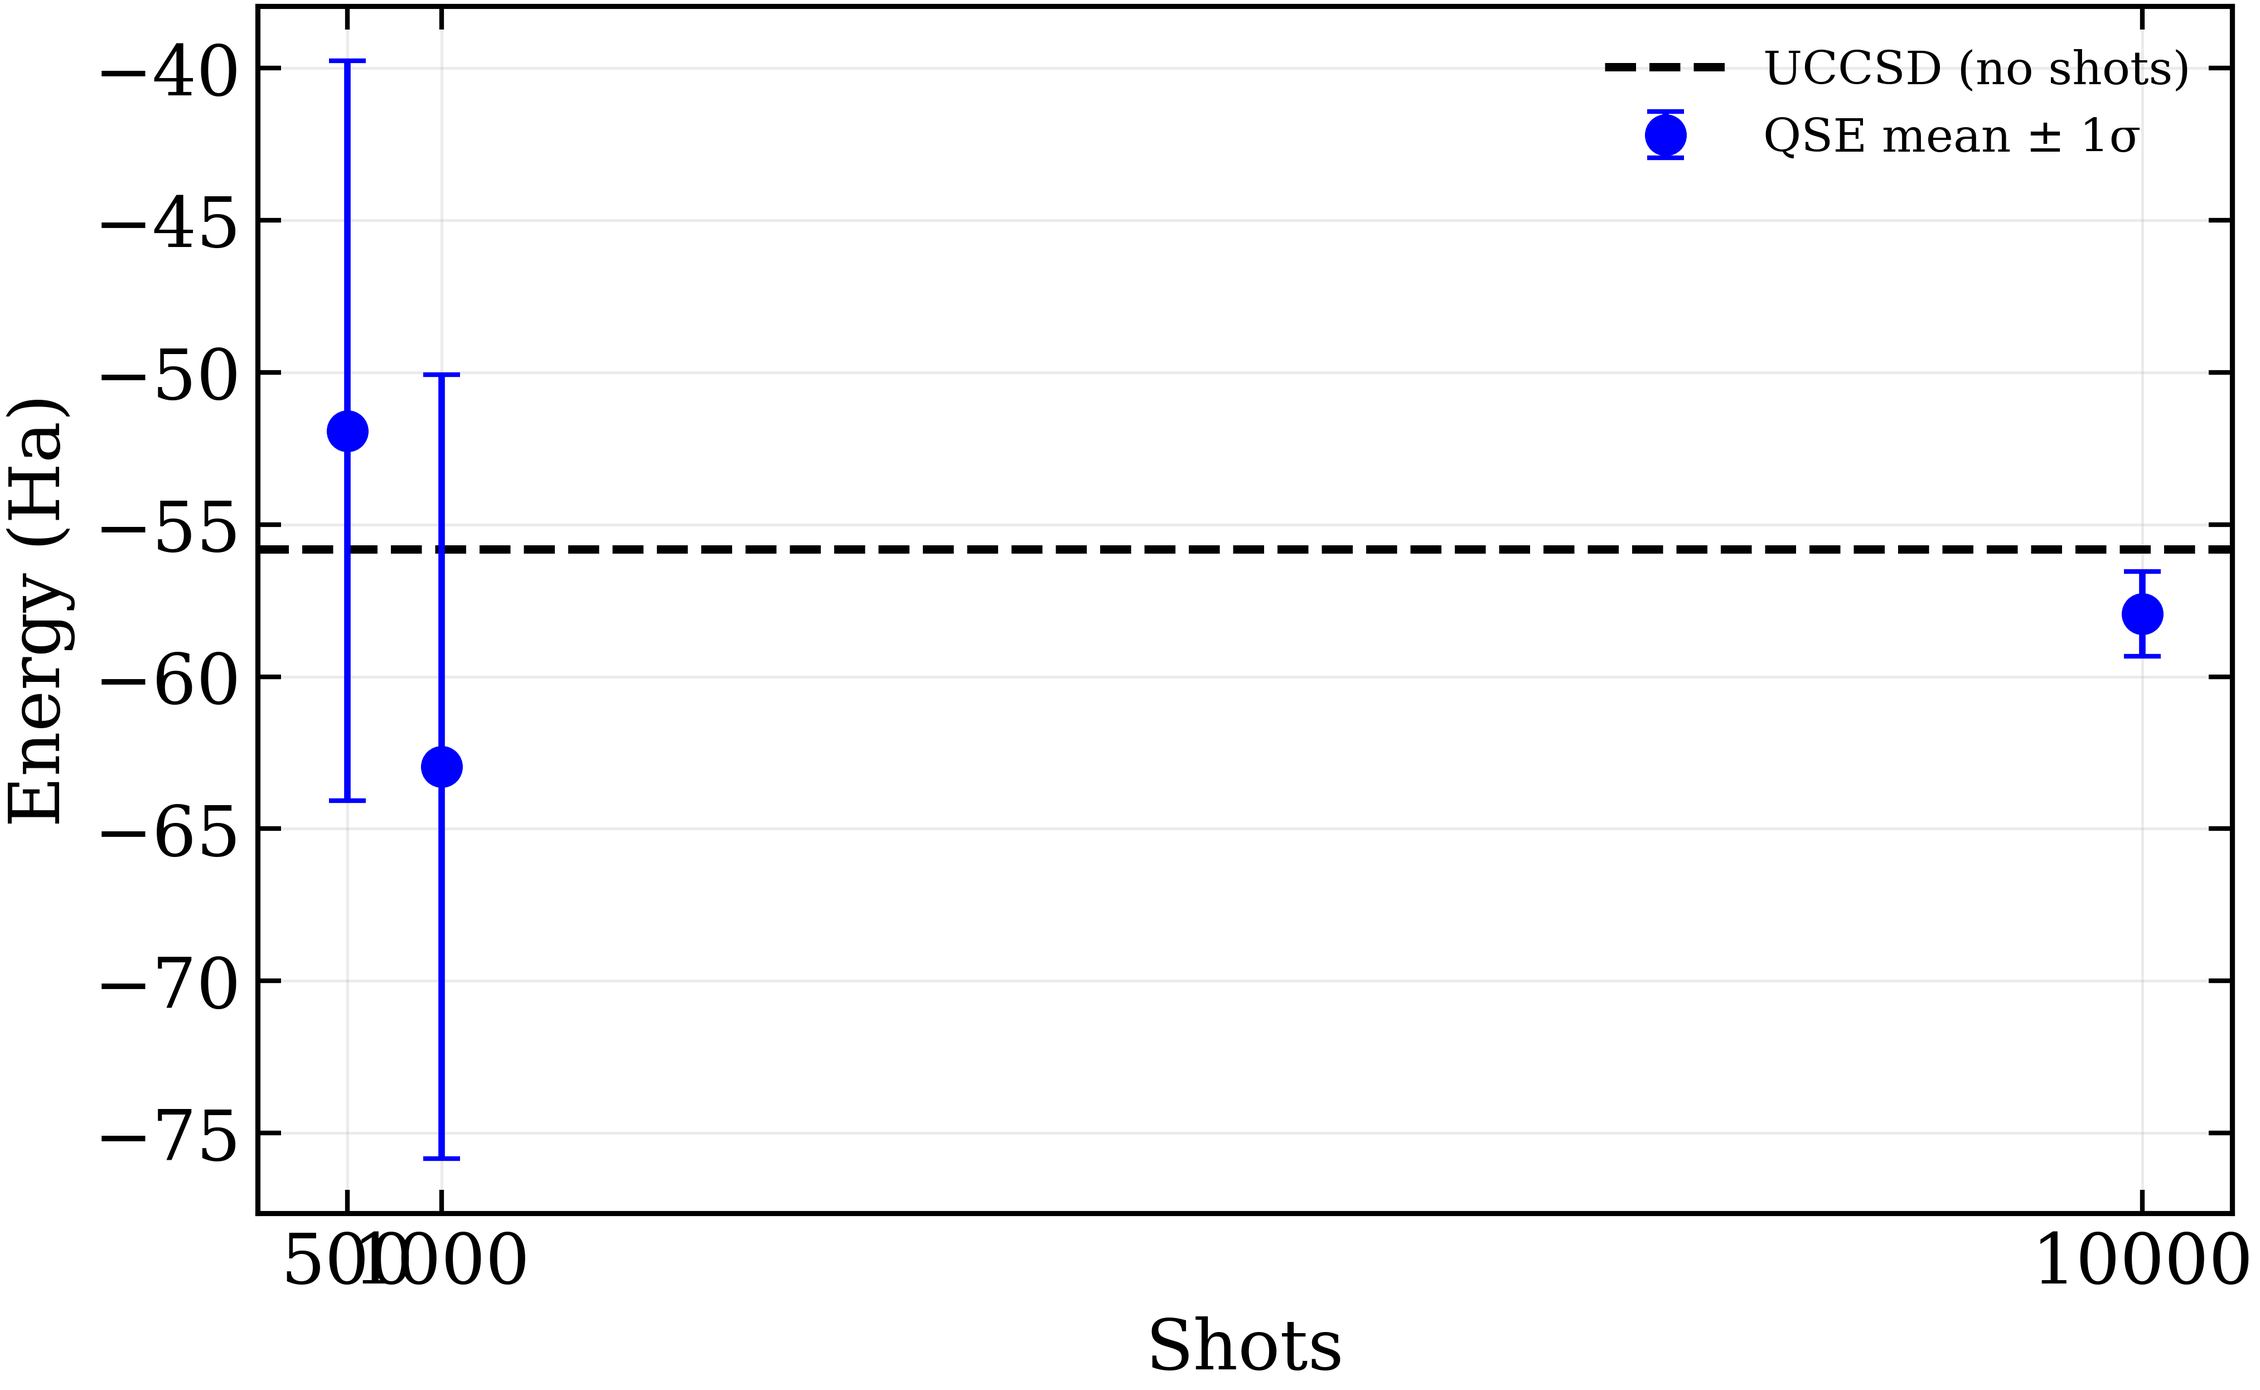
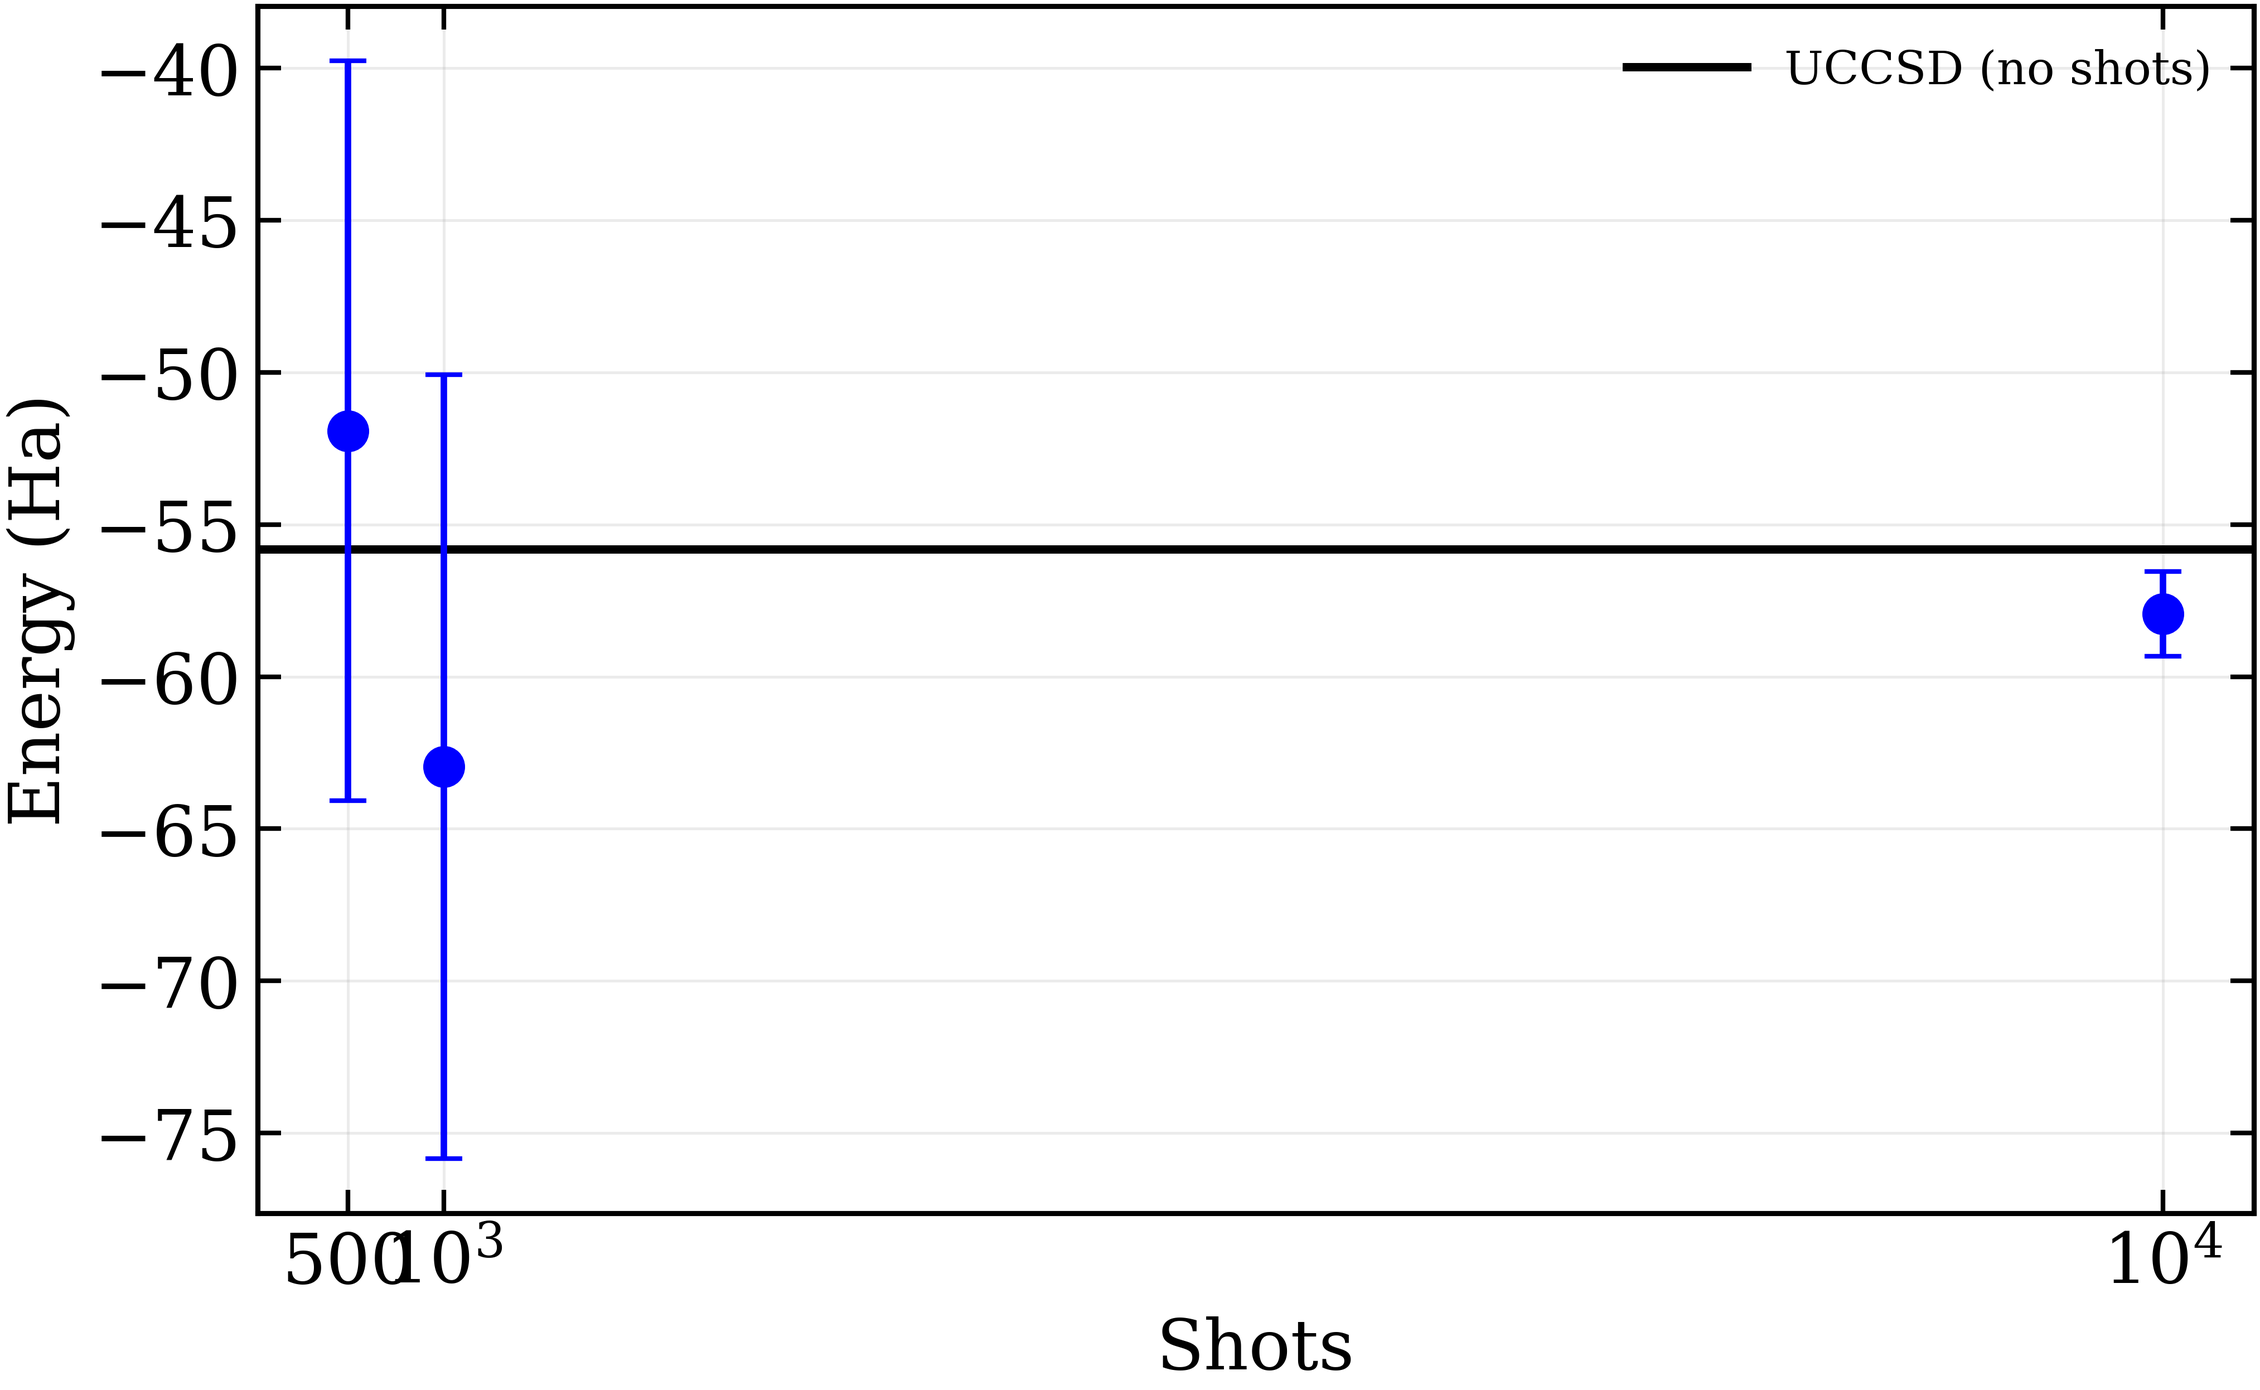
save

diff --git a/qse/ongoing_qse.py b/qse/ongoing_qse.py
@@ -1,0 +1,362 @@
+import numpy as np
+from pathlib import Path
+from qiskit import transpile
+from qiskit_nature.second_q.drivers import PySCFDriver
+from qiskit_nature.second_q.mappers import JordanWignerMapper
+from qiskit_nature.second_q.circuit.library import UCCSD, HartreeFock
+from qiskit_algorithms import VQE
+from qiskit_algorithms.optimizers import SPSA,SLSQP, POWELL
+from qiskit.primitives import Estimator
+from qiskit_algorithms.utils import algorithm_globals
+from qiskit_nature.second_q.algorithms import GroundStateEigensolver
+from qiskit.quantum_info import Statevector, SparsePauliOp
+import scipy
+from qiskit_aer.primitives import Estimator as AerEstimator
+from qiskit_nature.second_q.algorithms.initial_points import HFInitialPoint
+from qiskit_nature.second_q.mappers import JordanWignerMapper
+from qiskit_nature.second_q.operators import FermionicOp
+from qiskit_nature.second_q.transformers import ActiveSpaceTransformer
+import numpy as np
+from pyscf import gto, scf
+import pyscf.mcscf as mcscf
+
+#Create the all possible excitations
+num_spartial_orbital = 4
+num_spin_orbitals = num_spartial_orbital * 2
+
+# Initialize the mapper
+mapper = JordanWignerMapper()
+#Create an identity operator
+I = FermionicOp({'': 1.0}, num_spin_orbitals =num_spin_orbitals)
+I = mapper.map(I)
+
+ #list of occupied orbitals
+occupied = []
+for i in range(num_spin_orbitals//4):
+    occupied.append(i)
+    occupied.append(i+num_spin_orbitals//2)
+#occupied = [0,4,1,5]
+    
+# Generate all possible single excitations
+excitations = []
+def all_excitations(num_spin_orbitals):
+    for i in range(num_spin_orbitals):
+        for j in range(i+1, num_spin_orbitals):
+            # Prevent electrons from moving from alpha spin to beta spin and beta spin to alpha
+            if i != j and ((i < num_spin_orbitals // 2 and j < num_spin_orbitals // 2) or (i >= num_spin_orbitals // 2 and j >= num_spin_orbitals // 2)):
+                # Only consider excitations where the first two alpha and beta spins are filled with electrons
+                if (i in occupied and j not in occupied): 
+                    excitation = FermionicOp({f'+_{j} -_{i}': 1.0}, num_spin_orbitals=num_spin_orbitals)
+                    excitations.append(excitation)
+    
+        #Generate possible double excitations
+        #Double excitations all from alpha or beta orbitals
+            for k in range(j+1, num_spin_orbitals):
+                for l in range(k+1, num_spin_orbitals):
+                    if i != j and k != l and ((i < num_spin_orbitals // 2 and j < num_spin_orbitals // 2 and k < num_spin_orbitals // 2 and l < num_spin_orbitals // 2) or (i >= num_spin_orbitals // 2 and j >= num_spin_orbitals // 2 and k >= num_spin_orbitals // 2 and l >= num_spin_orbitals // 2)):
+                        # Only consider excitations where the first two alpha and beta spins are filled with electrons
+                        if (i in occupied and k not in occupied and j in occupied and l not in occupied): 
+                            excitation = FermionicOp({f'+_{l} +_{k} -_{i} -_{j}': 1.0}, num_spin_orbitals=num_spin_orbitals)
+                            excitations.append(excitation)
+  
+    for i in range(num_spin_orbitals // 2):
+        for j in range(num_spin_orbitals // 2, num_spin_orbitals):
+            for k in range(num_spin_orbitals // 2):
+                for l in range(num_spin_orbitals // 2, num_spin_orbitals):
+                    if i != k and j != l and i < k and j < l:
+                        # Condition to ensure one alpha and one beta excitation
+                        if (i in occupied and k not in occupied and j in occupied and l not in occupied): 
+                           # Create the FermionicOp and add to double_exc list
+                            exc = FermionicOp({f'+_{l} +_{k} -_{i} -_{j}': 1.0}, num_spin_orbitals=num_spin_orbitals)
+                            excitations.append(exc)
+
+    return excitations
+excitations = all_excitations(num_spin_orbitals)
+print(len(excitations))
+
+distances = np.linspace(0.60, 2.46, 2)
+#for d in distances:
+atom = f"N 0.0 0.0 0.0; H 2.526315789473684 0.0 0.0; H -0.506 0.876 0.0; H -0.506 -0.876 0.0"
+basis = "sto-6g"
+driver = PySCFDriver(atom=atom,  basis=basis)
+
+problem = driver.run()
+
+active_electrons = 4
+active_transformer = ActiveSpaceTransformer(num_electrons=active_electrons, num_spatial_orbitals=num_spartial_orbital)
+active_problem = active_transformer.transform(problem)
+
+seed = 170
+algorithm_globals.random_seed = seed
+
+mol = gto.M(atom = atom, basis=basis, verbose = 0)
+mf = scf.RHF(mol).run()
+mc = mcscf.CASCI(mf, ncas=num_spartial_orbital, nelecas=active_electrons)
+mc.kernel()
+
+frozen_core_energy = mc.e_tot - mc.e_cas
+core = frozen_core_energy
+print("Frozen-core energy =", core)
+
+
+# Initialize the mapper
+mapper = JordanWignerMapper()
+        
+# Map the electronic problem to a qubit operator
+qubit_op = mapper.map(active_problem.hamiltonian.second_q_op())
+        
+# Initialize the UCCSD ansatz with Hartree-Fock initial state
+ansatz = UCCSD(
+    active_problem.num_spatial_orbitals,
+    active_problem.num_particles,
+    mapper,
+    initial_state=HartreeFock(
+        active_problem.num_spatial_orbitals,
+        active_problem.num_particles,
+        mapper
+    ),
+)
+
+vqe = VQE(Estimator(), ansatz, SLSQP())
+vqe.initial_point = np.zeros(ansatz.num_parameters)
+nr = active_problem.nuclear_repulsion_energy 
+# Calculate the exact energy
+#creating a ground state eigensolver(vqe)
+#print("NR", nr)
+solver = GroundStateEigensolver(mapper, vqe)
+result = solver.solve(active_problem)
+#print(f"Computing for bond length: {d:.2f} Å")
+
+gr = result.total_energies
+
+print(f"uccsd energy = {gr}")
+uccsd_energy = float(np.asarray(gr, dtype=float).reshape(-1)[0])
+# Extract the ground state wavefunction parameters
+
+psi_vqe = result.raw_result.optimal_point
+
+from qiskit.circuit import ParameterVector
+ansatz = ansatz.assign_parameters(dict(zip(ansatz.parameters, psi_vqe)), inplace=False)
+
+from qiskit_aer import AerSimulator
+simulator = AerSimulator(method='statevector')
+qc = transpile(ansatz, simulator)
+qc.save_statevector()
+
+aer_result = simulator.run(qc).result()
+statevector = aer_result.get_statevector(qc)
+
+
+# Initialize the matrix M
+num_excitations = len(excitations)
+M = np.zeros((num_excitations +1, num_excitations +1), dtype=complex)
+S = np.zeros((num_excitations +1, num_excitations +1), dtype=complex)
+# Compute the matrix elements
+for i in range(len(excitations) +1):
+    for j in range(len(excitations)+1):
+        G_i = excitations[i-1]
+        G_j = excitations[j-1]
+        op_i = mapper.map(G_i)
+        op_j = mapper.map(G_j)
+        op = op_i.adjoint()@qubit_op@op_j
+        oj = qubit_op@op_j
+        oi = op_i.adjoint()@qubit_op
+                
+        if i == j == 0:
+            M[i, j] = Statevector(statevector).expectation_value(qubit_op)
+            S[i, j] = 1.0
+        elif i==0 and j > 0:
+            M[i, j] = Statevector(statevector).expectation_value(oj)
+            S[i, j] = Statevector(statevector).expectation_value(op_j)
+        elif i>0 and j==0:
+            M[i, j] = Statevector(statevector).expectation_value(oi)
+            S[i, j] = Statevector(statevector).expectation_value(op_i.adjoint())
+        else:
+            M[i, j] = Statevector(statevector).expectation_value(op)
+            S[i, j] = Statevector(statevector).expectation_value(op_i.adjoint()@op_j)                      
+
+#cond_num = np.linalg.cond(S)
+#print("condition number:", cond_num)
+
+eig, ev = scipy.linalg.eigh(M, S) 
+#eigval_exact.append(eigval)
+print("Eigenvalues from QSE:", eig + core)
+qse_no_shot_first = float(np.asarray(np.real_if_close(eig + core), dtype=float)[0])
+
+
+
+from qiskit_aer.primitives import Estimator
+
+
+def plot_shot_stats(shots, means, variances, no_shot_value, plot_path):
+    import matplotlib as mpl
+    import matplotlib.pyplot as plt
+
+    x = np.asarray(shots, dtype=float)
+    y = np.asarray(means, dtype=float)
+    var = np.asarray(variances, dtype=float)
+    yerr = np.sqrt(np.clip(var, a_min=0.0, a_max=None))
+
+    style_params = {
+        "font.family": "DejaVu Serif",
+        "mathtext.fontset": "dejavuserif",
+        "axes.labelsize": 15,
+        "axes.linewidth": 1.1,
+        "xtick.labelsize": 15,
+        "ytick.labelsize": 15,
+        "xtick.direction": "in",
+        "ytick.direction": "in",
+        "xtick.major.width": 1.0,
+        "ytick.major.width": 1.0,
+        "xtick.minor.width": 0.8,
+        "ytick.minor.width": 0.8,
+        "xtick.major.size": 5,
+        "ytick.major.size": 5,
+        "xtick.minor.size": 3,
+        "ytick.minor.size": 3,
+        "xtick.top": True,
+        "ytick.right": True,
+        "lines.linewidth": 2.0,
+        "lines.markersize": 8.0,
+        "legend.frameon": False,
+        "legend.fontsize": 10,
+        "savefig.dpi": 600,
+        "savefig.bbox": "tight",
+    }
+    with mpl.rc_context(style_params):
+        fig, ax = plt.subplots(figsize=(6.8, 4.2), constrained_layout=True)
+        ax.axhline(
+            float(no_shot_value),
+            color="black",
+            linestyle="-",
+            linewidth=1.8,
+            label="QSE (no shots)",
+        )
+        ax.errorbar(
+            x,
+            y,
+            yerr=yerr,
+            fmt="o",
+            color="blue",
+            ecolor="blue",
+            elinewidth=1.4,
+            capsize=4,
+        )
+        ax.set_xscale("log")
+        ax.set_xlabel("Shots")
+        ax.set_ylabel("Energy (Ha)")
+        ax.set_xticks(x)
+        shot_labels = []
+        for v in x:
+            iv = int(v)
+            if iv == 1000:
+                shot_labels.append(r"$10^3$")
+            elif iv == 10000:
+                shot_labels.append(r"$10^4$")
+            else:
+                shot_labels.append(str(iv))
+        ax.set_xticklabels(shot_labels)
+        #ax.grid(True, which="major", alpha=0.25, linewidth=0.6)
+        #ax.grid(True, which="minor", alpha=0.12, linewidth=0.4)
+        #ax.legend(loc="best", handlelength=2.6)
+        plot_path.parent.mkdir(parents=True, exist_ok=True)
+        fig.savefig(plot_path, dpi=600, bbox_inches="tight", pad_inches=0.02)
+        plt.close(fig)
+
+
+num_runs = 10
+shot_values = [500, 1000, 10000]
+means = []
+variances = []
+shot_records = []
+
+for shot in shot_values:
+    estimator = Estimator(
+        run_options={"shots": int(shot)},
+        transpile_options={"seed_transpiler": 42},
+        approximation=True,
+    )
+    run_values = []
+    for t in range(num_runs):
+        Mn = np.zeros((num_excitations + 1, num_excitations + 1), dtype=complex)
+        Sn = np.zeros((num_excitations + 1, num_excitations + 1), dtype=complex)
+        for i in range(len(excitations) + 1):
+            for j in range(len(excitations) + 1):
+                G_i = excitations[i - 1]
+                G_j = excitations[j - 1]
+                op_i = mapper.map(G_i)
+                op_j = mapper.map(G_j)
+                op = op_i.adjoint() @ qubit_op @ op_j
+                oj = qubit_op @ op_j
+                oi = op_i.adjoint() @ qubit_op
+
+                if i == j == 0:
+                    Mn[i, j] = estimator.run(ansatz, qubit_op).result().values[0]
+                    Sn[i, j] = estimator.run(ansatz, I).result().values[0]
+                elif i == 0 and j > 0:
+                    Mn[i, j] = estimator.run(ansatz, oj).result().values[0]
+                    Sn[i, j] = estimator.run(ansatz, op_j).result().values[0]
+                elif i > 0 and j == 0:
+                    Mn[i, j] = estimator.run(ansatz, oi).result().values[0]
+                    Sn[i, j] = estimator.run(ansatz, op_i.adjoint()).result().values[0]
+                else:
+                    Mn[i, j] = estimator.run(ansatz, op).result().values[0]
+                    Sn[i, j] = estimator.run(ansatz, op_i.adjoint() @ op_j).result().values[0]
+
+        Mn = np.nan_to_num(Mn, nan=0.0, posinf=0.0, neginf=0.0)
+        Sn = np.nan_to_num(Sn, nan=0.0, posinf=0.0, neginf=0.0)
+        Mn = 0.5 * (Mn + Mn.conj().T)
+        Sn = 0.5 * (Sn + Sn.conj().T)
+
+        try:
+            eigval_shot, _ = scipy.linalg.eigh(Mn, Sn)
+        except Exception:
+            eigval_shot, _ = scipy.linalg.eig(Mn, Sn)
+            eigval_shot = np.real_if_close(np.asarray(eigval_shot))
+            if np.iscomplexobj(eigval_shot):
+                eigval_shot = np.real(eigval_shot)
+            order = np.argsort(np.asarray(eigval_shot, dtype=float))
+            eigval_shot = np.asarray(eigval_shot, dtype=float)[order]
+
+        eig_with_core = np.asarray(np.real_if_close(eigval_shot + core), dtype=float)
+        first_eig = float(eig_with_core[0])
+        run_values.append(first_eig)
+        print(f"shots={int(shot)} run={t + 1:02d}/{num_runs}: first_eig={first_eig:.12f}")
+
+    arr = np.asarray(run_values, dtype=float)
+    mean = float(arr.mean())
+    variance = float(arr.var(ddof=1)) if len(arr) > 1 else 0.0
+    means.append(mean)
+    variances.append(variance)
+    shot_records.append((int(shot), [float(v) for v in arr.tolist()], mean, variance))
+    print(f"shots={int(shot)}: mean={mean:.12f}, variance={variance:.12e}")
+
+
+plot_path = Path(__file__).resolve().with_name("ongoing_nh3_qse_shots_plot.png")
+plot_shot_stats(
+    shots=shot_values,
+    means=means,
+    variances=variances,
+    no_shot_value=qse_no_shot_first,
+    plot_path=plot_path,
+)
+
+txt_path = Path(__file__).resolve().with_name("ongoing_nh3_qse_shots.txt")
+report_lines = [
+    "NH3 QSE Shot Statistics (ongoing_qse)",
+    f"HF energy (Ha): {float(mf.e_tot):.12f}",
+    f"UCCSD energy (Ha, no shots): {uccsd_energy:.12f}",
+    f"QSE first eigenvalue (Ha, no shots): {qse_no_shot_first:.12f}",
+    f"shot_values: {shot_values}",
+    f"runs_per_shot: {num_runs}",
+    "",
+]
+for shot, values, mean, variance in shot_records:
+    report_lines.append(
+        f"shots={shot}: mean={mean:.12f}, variance={variance:.12e}"
+    )
+    report_lines.append(f"  first_eig_values: {values}")
+report_lines.extend(["", f"Plot file: {plot_path}", ""])
+txt_path.write_text("\n".join(report_lines), encoding="utf-8")
+print(f"Wrote stats TXT: {txt_path}")
+print(f"Wrote plot: {plot_path}")

diff --git a/qse/run_qseshots.py b/qse/run_qseshots.py
@@ -71,6 +71,7 @@ def plot_results(shots, means, variances, uccsd_no_shot_energy, plot_path):
             capsize=4,
             #label="QSE mean ± 1σ",
         )
+        ax.set_xscale("log")
         ax.set_xlabel("Shots")
         ax.set_ylabel("Energy (Ha)")
         ax.set_xticks(x)
@@ -86,7 +87,7 @@ def plot_results(shots, means, variances, uccsd_no_shot_energy, plot_path):
         ax.set_xticklabels(shot_labels)
         ax.grid(True, which="major", alpha=0.25, linewidth=0.6)
         ax.grid(True, which="minor", alpha=0.12, linewidth=0.4)
-        ax.legend(loc="best", handlelength=2.6)
+        #ax.legend(loc="best", handlelength=2.6)
 
         plot_path.parent.mkdir(parents=True, exist_ok=True)
         fig.savefig(plot_path, dpi=600, bbox_inches="tight", pad_inches=0.02)
@@ -117,6 +118,7 @@ def main():
         seed=seed0,
         shots=0,
         uccsd_shots=0,
+        use_aer_estimator=True,
     )
     hf_no_shot_energy = float(baseline["hf_energy"])
     uccsd_no_shot_energy = float(baseline["ground_energy"])
@@ -141,6 +143,7 @@ def main():
                 seed=run_seed,
                 shots=int(shot),
                 uccsd_shots=0,
+                use_aer_estimator=True,
             )
             qse_gr = float(results["qse_eigenvalues"][0])
             values.append(qse_gr)
